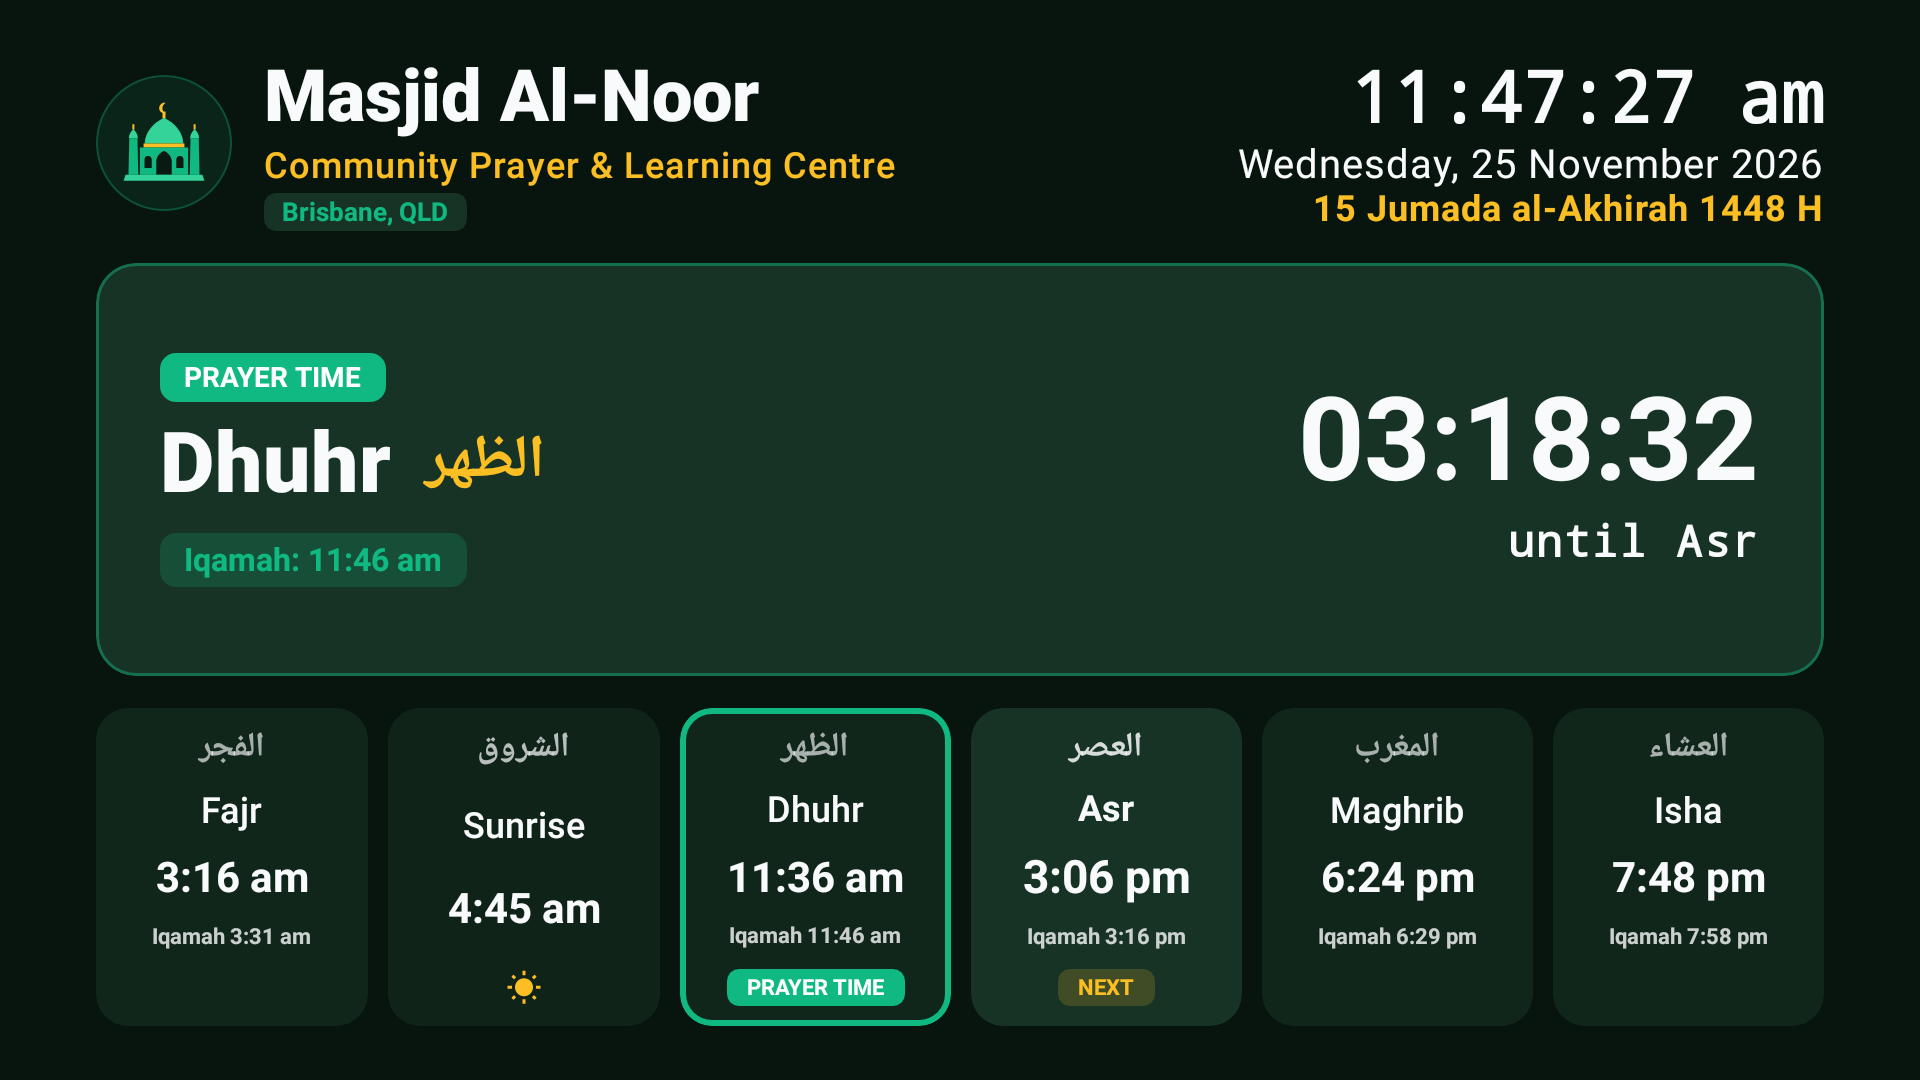
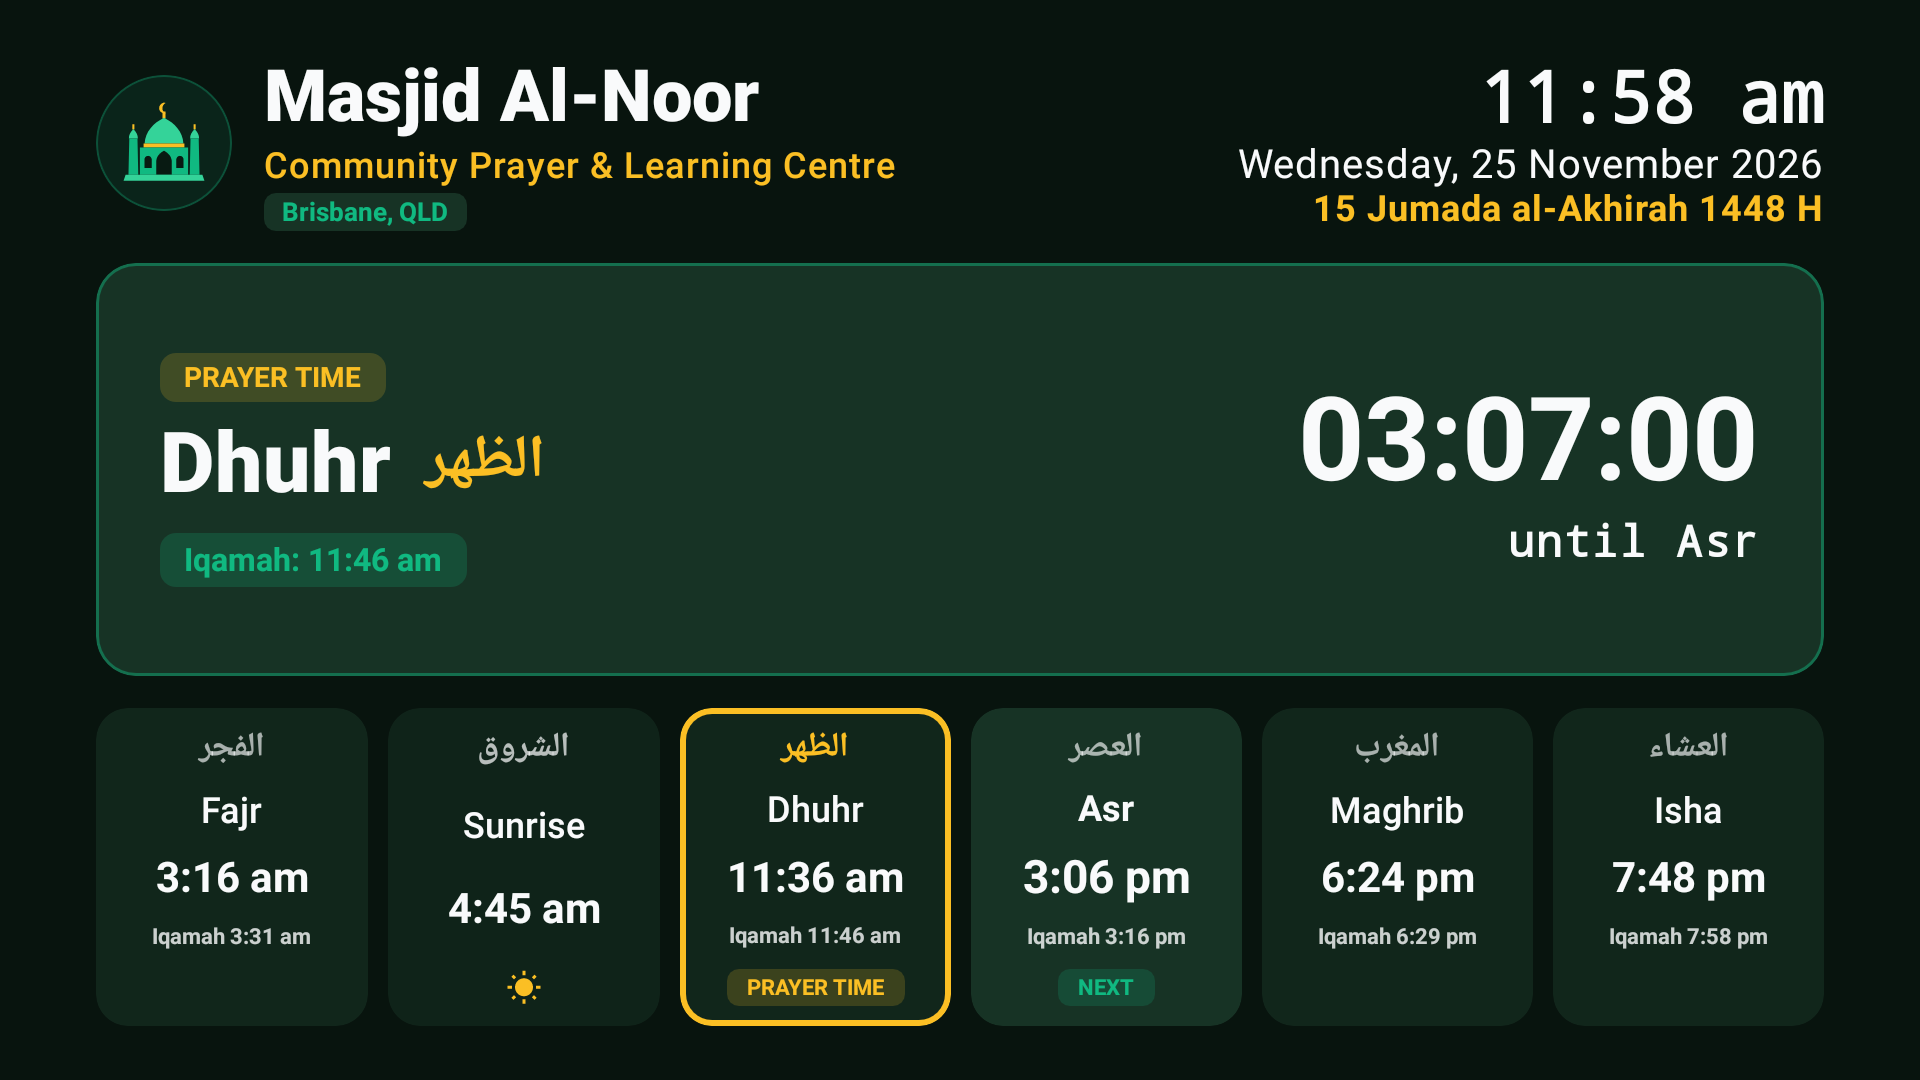
Remove seconds from schedule clock and unify yellow active / green next prayer colors

diff --git a/core-tv-ui/src/main/java/com/salatsign/tv/ui/common/PrayerCardsRow.kt b/core-tv-ui/src/main/java/com/salatsign/tv/ui/common/PrayerCardsRow.kt
@@ -46,6 +46,7 @@ fun PrayerCardsRow(
     modifier: Modifier = Modifier
 ) {
     val hasSunriseCard = !sunriseTime.isNullOrBlank()
+    val hasAnyActivePrayer = prayers.any { it.isActive }
     Row(
         modifier = modifier,
         horizontalArrangement = Arrangement.spacedBy(if (hasSunriseCard) 10.dp else 14.dp)
@@ -57,6 +58,7 @@ fun PrayerCardsRow(
                 showArabicPrayerNames = showArabicPrayerNames,
                 isMosqueMode = isMosqueMode,
                 isCompactSixColumn = hasSunriseCard,
+                isArabicHighlighted = item.isActive || (!hasAnyActivePrayer && item.isNext),
                 modifier = Modifier
                     .weight(1f)
                     .fillMaxSize()
@@ -149,6 +151,7 @@ fun PrayerCard(
     showArabicPrayerNames: Boolean = true,
     isMosqueMode: Boolean = false,
     isCompactSixColumn: Boolean = false,
+    isArabicHighlighted: Boolean = item.isActive,
     modifier: Modifier = Modifier
 ) {
     val colorScheme = MaterialTheme.colorScheme
@@ -163,7 +166,7 @@ fun PrayerCard(
     val shape = RoundedCornerShape(16.dp)
     val containerColor = if (item.isNext) colorScheme.surfaceVariant else colorScheme.surface
     val borderModifier = if (item.isActive) {
-        Modifier.pulsingGlow(shape = shape, glowColor = accentPrimary)
+        Modifier.pulsingGlow(shape = shape, glowColor = accentSecondary)
     } else {
         Modifier
     }
@@ -189,7 +192,11 @@ fun PrayerCard(
                     maxLines = 1,
                     style = TvTypography.ArabicTitle.copy(
                         fontSize = if (isCompactSixColumn) 17.sp else 18.sp,
-                        color = colorScheme.onSurface.copy(alpha = if (item.isNext) 0.85f else 0.65f)
+                        color = if (isArabicHighlighted) {
+                            accentSecondary
+                        } else {
+                            colorScheme.onSurface.copy(alpha = 0.65f)
+                        }
                     )
                 )
             } else {
@@ -277,7 +284,7 @@ fun PrayerCard(
             if (item.isActive) {
                 Box(
                     modifier = Modifier
-                        .background(accentPrimary, RoundedCornerShape(6.dp))
+                        .background(accentSecondary.copy(alpha = 0.18f), RoundedCornerShape(6.dp))
                         .padding(horizontal = 10.dp, vertical = 3.dp)
                 ) {
                     Text(
@@ -285,14 +292,14 @@ fun PrayerCard(
                         style = TvTypography.BodyLabel.copy(
                             fontSize = 11.sp,
                             fontWeight = FontWeight.Bold,
-                            color = Color.White
+                            color = accentSecondary
                         )
                     )
                 }
             } else if (item.isNext) {
                 Box(
                     modifier = Modifier
-                        .background(accentSecondary.copy(alpha = 0.18f), RoundedCornerShape(6.dp))
+                        .background(accentPrimary.copy(alpha = 0.18f), RoundedCornerShape(6.dp))
                         .padding(horizontal = 10.dp, vertical = 3.dp)
                 ) {
                     Text(
@@ -300,7 +307,7 @@ fun PrayerCard(
                         style = TvTypography.BodyLabel.copy(
                             fontSize = 11.sp,
                             fontWeight = FontWeight.Bold,
-                            color = accentSecondary
+                            color = accentPrimary
                         )
                     )
                 }

diff --git a/app-salatschedule/src/main/java/com/salatschedule/tv/ui/home/HomeScreen.kt b/app-salatschedule/src/main/java/com/salatschedule/tv/ui/home/HomeScreen.kt
@@ -232,7 +232,7 @@ fun HomeActiveStrikeBanner(
         modifier = modifier
             .clip(strikeShape)
             .background(colorScheme.surfaceVariant, strikeShape)
-            .pulsingGlow(shape = strikeShape, glowColor = accentPrimary)
+            .pulsingGlow(shape = strikeShape, glowColor = accentSecondary)
     ) {
         Column(
             modifier = Modifier
@@ -362,7 +362,7 @@ fun NextPrayerSpotlightCard(
                 Box(
                     modifier = Modifier
                         .background(
-                            if (isShowingCurrent) accentPrimary else accentPrimary.copy(alpha = 0.16f),
+                            if (isShowingCurrent) accentSecondary.copy(alpha = 0.18f) else accentPrimary.copy(alpha = 0.16f),
                             RoundedCornerShape(8.dp)
                         )
                         .padding(horizontal = 12.dp, vertical = 4.dp)
@@ -376,7 +376,7 @@ fun NextPrayerSpotlightCard(
                         style = TvTypography.BodyLabel.copy(
                             fontSize = 14.sp,
                             fontWeight = FontWeight.Bold,
-                            color = if (isShowingCurrent) Color.White else accentPrimary
+                            color = if (isShowingCurrent) accentSecondary else accentPrimary
                         )
                     )
                 }

diff --git a/app-salatsign/src/main/java/com/salatsign/tv/ui/mosque/MosqueSignageScreen.kt b/app-salatsign/src/main/java/com/salatsign/tv/ui/mosque/MosqueSignageScreen.kt
@@ -338,7 +338,7 @@ fun MosqueActiveStrikeBanner(
         modifier = modifier
             .clip(strikeShape)
             .background(colorScheme.surfaceVariant, strikeShape)
-            .pulsingGlow(shape = strikeShape, glowColor = accentPrimary)
+            .pulsingGlow(shape = strikeShape, glowColor = accentSecondary)
     ) {
         Column(
             modifier = Modifier
@@ -482,7 +482,7 @@ fun MosqueNextPrayerBanner(
                 Box(
                     modifier = Modifier
                         .background(
-                            if (isShowingCurrent) accentPrimary else accentPrimary.copy(alpha = 0.16f),
+                            if (isShowingCurrent) accentSecondary.copy(alpha = 0.18f) else accentPrimary.copy(alpha = 0.16f),
                             RoundedCornerShape(8.dp)
                         )
                         .padding(horizontal = 12.dp, vertical = 4.dp)
@@ -496,7 +496,7 @@ fun MosqueNextPrayerBanner(
                         style = TvTypography.BodyLabel.copy(
                             fontSize = 14.sp,
                             fontWeight = FontWeight.Bold,
-                            color = if (isShowingCurrent) Color.White else accentPrimary
+                            color = if (isShowingCurrent) accentSecondary else accentPrimary
                         )
                     )
                 }

diff --git a/core-tv-ui/src/main/java/com/salatsign/tv/ui/common/LiveClockHeader.kt b/core-tv-ui/src/main/java/com/salatsign/tv/ui/common/LiveClockHeader.kt
@@ -96,9 +96,9 @@ fun LiveClockHeader(
 
     val timeFormatted = remember(currentTime, is24HourFormat) {
         if (is24HourFormat) {
-            currentTime.format(DateTimeFormatter.ofPattern("HH:mm:ss", Locale.US))
+            currentTime.format(DateTimeFormatter.ofPattern("HH:mm", Locale.US))
         } else {
-            currentTime.format(DateTimeFormatter.ofPattern("h:mm:ss a", Locale.forLanguageTag("en-AU")))
+            currentTime.format(DateTimeFormatter.ofPattern("h:mm a", Locale.forLanguageTag("en-AU")))
                 .lowercase(Locale.ENGLISH)
         }
     }
